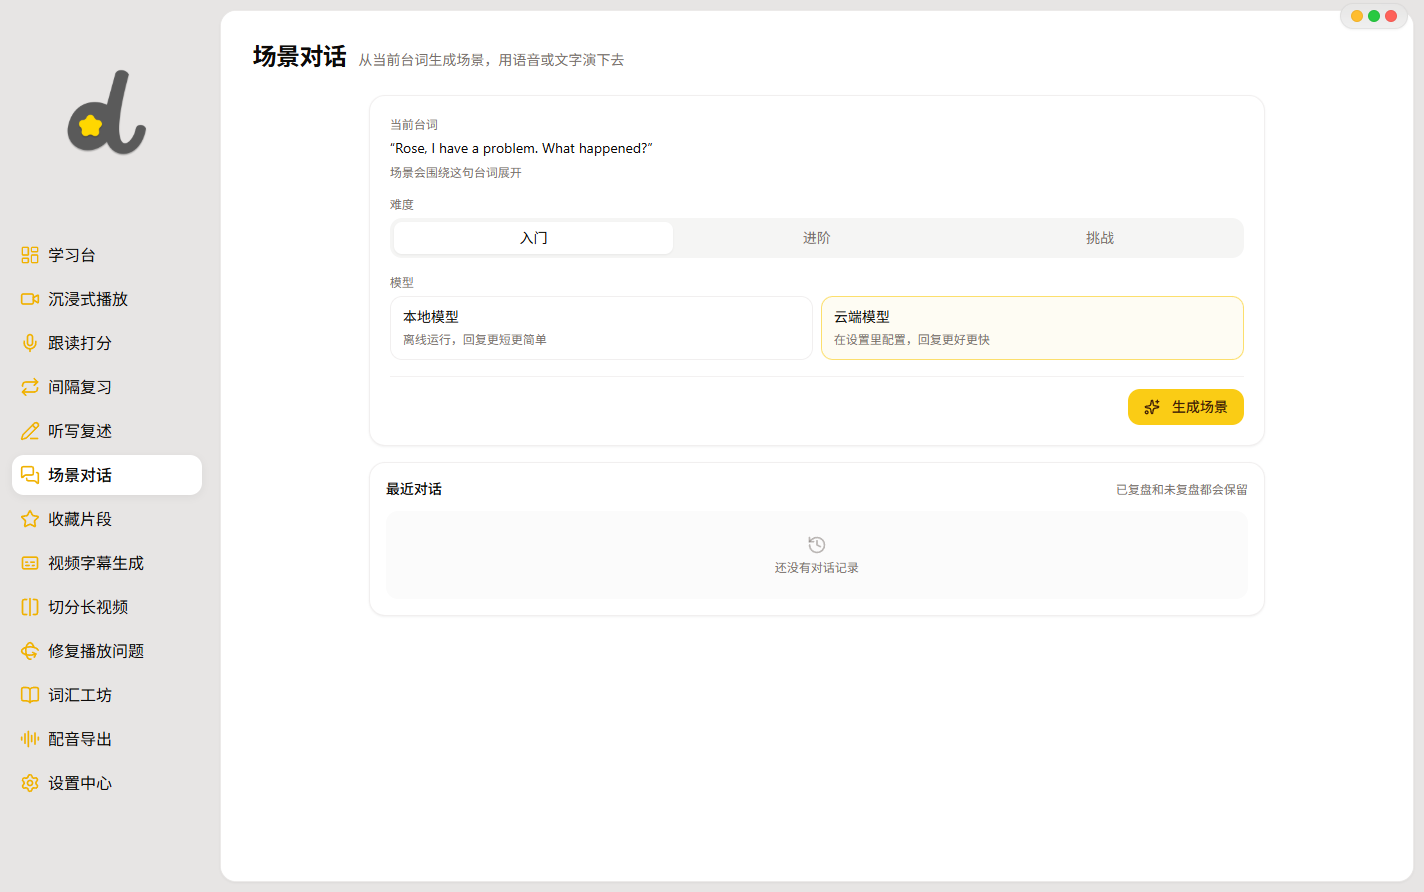
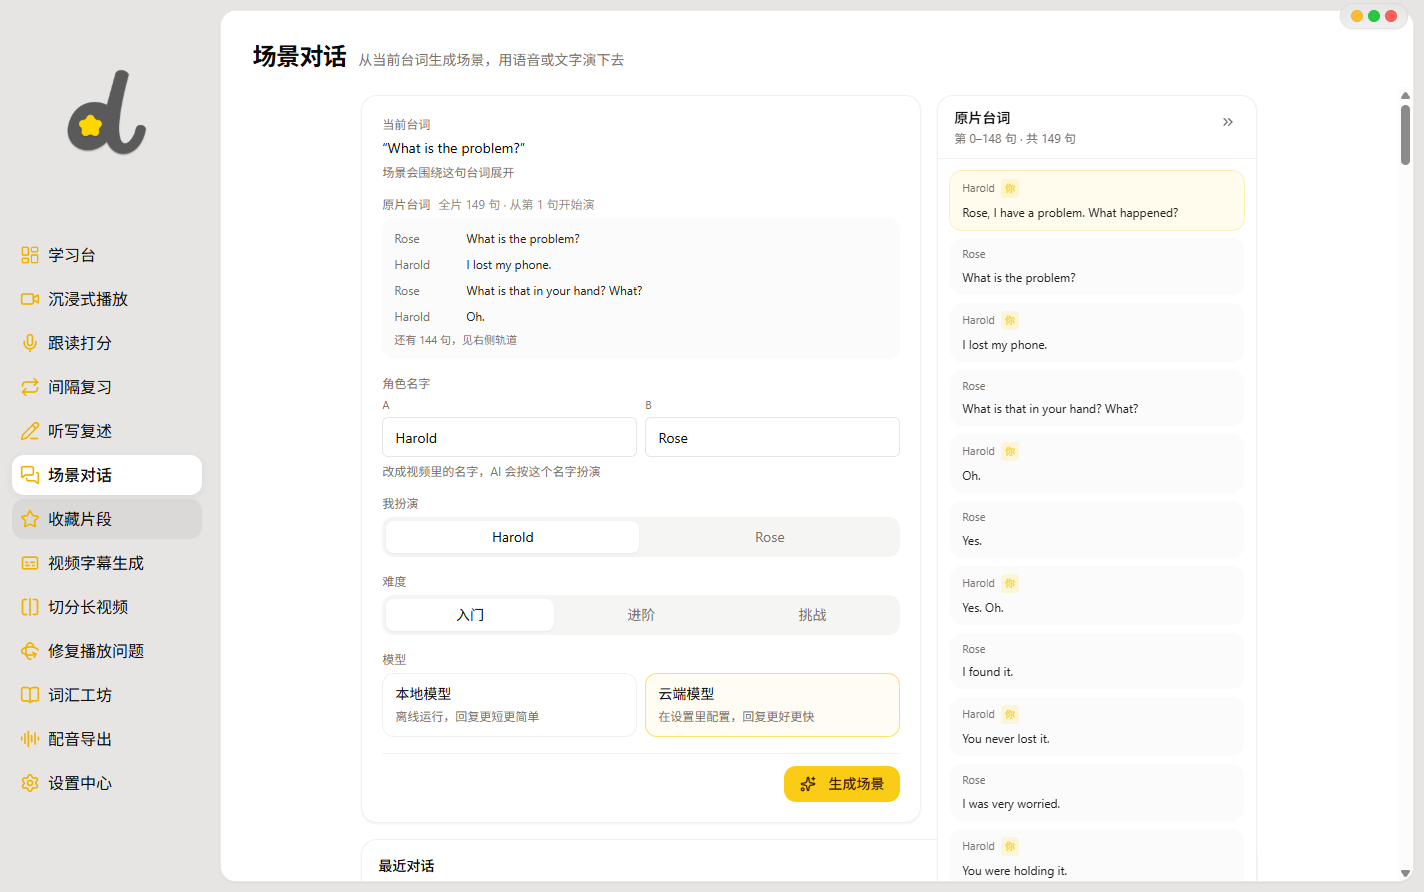
docs: bring the repository up to P6 for a public release
- README: describe the P6 rehearsal dialogue, say plainly that the five pages share one engine and differ by task
- README: baseline tag portfolio-p6, migrations 0007-0012, new dialogue screenshots
- NOTICE: copyright line and P6 modification list
- screenshots: retake 07/08/10 on the new dialogue, add 09

diff --git a/README.md b/README.md
@@ -28,6 +28,28 @@ Watch → hear a line → shadow → word-level feedback → save
 
 Every item points back to `videoKey + sentenceIndex`, so the original context is never lost.
 
+### One engine, five views
+
+These pages are not five products; they are five tasks on one engine:
+
+```text
+sentence (videoKey + sentenceIndex)
+  → play audio → record → local ASR → word alignment → score
+  → store attempt → (optionally) schedule a review card
+```
+
+What changes per page is the **task** and therefore the **scoring rule**:
+
+| Page | Task | How it is judged |
+|---|---|---|
+| Shadowing | say the line after hearing it | word-by-word against the line |
+| Spaced review | say it again when due | same word-by-word score; pass moves the card forward |
+| Dictation | type what you hear | word-by-word against the line |
+| Retell | say it in your own words | keyword coverage, not exact wording |
+| Scene dialogue | say your part in a scripted conversation | per-line correction (wording / grammar / pronunciation), script followed line by line |
+
+If two of these feel identical to you, that is useful feedback: it means the task does not differ enough to justify its own page. That is the next thing being fixed.
+
 ## What this fork adds
 
 | Area | What it does |
@@ -36,7 +58,7 @@ Every item points back to `videoKey + sentenceIndex`, so the original context is
 | **Spaced Review** | Review means listening and shadowing again. The backend reads the real attempt score; a pass postpones the card (1/3/7/14/30 days), a fail returns it immediately. |
 | **Dashboard** | Today’s practice (shadowing + dictation/retell + dialogue turns), streak, 7-day activity. |
 | **Dictation & Retell** | Word-by-word dictation check; retelling scored by keyword coverage, not exact wording. |
-| **Scene Dialogue** | Builds a role-play from the current line, lets you speak or type, then produces specific feedback. Good lines go into the same review queue. |
+| **Scene Dialogue** | Rehearses the clip's own dialogue. The whole subtitle track becomes a script rail; the AI speaks the next original line (it does not invent lines), the learner says their part, each line is spoken before the next appears, and every learner line gets a per-line correction card. Review at the end; good lines go into the same queue. |
 | **Local-first models** | Dialogue can run on the bundled Qwen3.5 2B (offline) or any OpenAI-compatible endpoint (cloud or local Ollama). The UI always shows which model produced the feedback. |
 
 ### Three evaluation layers (and what is deliberately missing)
@@ -55,8 +77,10 @@ There is **no phoneme, stress, or intonation score** for free speech. The local 
 | Word-level shadowing feedback | Spaced review driven by a real score |
 | ![Dictation](docs/screenshots/05-dictation.png) | ![Retell](docs/screenshots/06-retell.png) |
 | Dictation check | Retelling by keyword coverage |
-| ![Dialogue](docs/screenshots/08-dialogue-scene.png) | ![Dialogue review](docs/screenshots/10-dialogue-review.png) |
-| Scene generated from the current line | Review: stats, line feedback, good lines |
+| ![Dialogue](docs/screenshots/08-dialogue-scene.png) | ![Dialogue correction](docs/screenshots/09-dialogue-chat.png) |
+| Rehearsing the clip line by line | Per-line correction under the learner's line |
+| ![Dialogue review](docs/screenshots/10-dialogue-review.png) | ![Dialogue setup](docs/screenshots/07-dialogue-setup.png) |
+| Review: stats, line feedback, good lines | Setup: script rail, roles, difficulty |
 | ![Dashboard](docs/screenshots/11-dashboard.png) | ![Player](docs/screenshots/01-player.png) |
 | Dashboard | The player and the current line |
 
@@ -71,7 +95,7 @@ Renderer (React features)
 - Front end: `src/fronted/features/<domain>/`
 - Back end: `controllers / services / infrastructure / ioc`
 - Contracts: `src/common/contracts/**`, `src/common/api/api-def.ts`
-- SQLite + Drizzle; migrations `0007`–`0010` add the learning tables.
+- SQLite + Drizzle; migrations `0007`–`0012` add the learning tables.
 - Shared engines: tokenization, word alignment, sentence audio, recorded speech, recorder hook, local-model adapter.
 
 ## Quick start
@@ -109,7 +133,7 @@ corepack yarn package
 
 ## Project status
 
-- Baseline tag: `portfolio-p5`.
+- Baseline tag: `portfolio-p6`.
 - All five learning stages are implemented and tested end-to-end on Windows.
 - The local 2B model can run offline but gives weaker scene relevance and feedback than cloud models; the UI labels the reviewing model.
 - Not tested on macOS/Linux in this fork; the upstream project supports them.
@@ -128,8 +152,10 @@ corepack yarn package
 
 这是 [DashPlayer](https://github.com/solidSpoon/DashPlayer) 的英语学习修改版，以“视频句”为唯一学习单元，串起跟读打分、间隔复习、听写复述、场景对话与学习台。
 
+- 五个页面共用一套引擎（取句 → 播/录 → 本地识别 → 逐词对齐 → 打分 → 进复习队列），区别在任务与判定规则；任务形态不够区分的地方，会合并而不是再开一个页面。
+- 场景对话照原片台词逐句演：AI 念剧本原句而不是自由发挥，一句读完才出下一句，每句下方给纠错卡。
 - 评分只做词级，不做假音素级；对话点评标注模型来源，不冒充考试分数。
 - 对话模型可切换内置本地模型（离线）或 OpenAI 兼容接口。
 - 代码基于 AGPL-3.0 开源；影视素材仅本地演示，不随仓库分发。
 
-详见 [`docs/开发流程说明-中文.md`](docs/开发流程说明-中文.md)（如果随仓库提供）。
+构建与验证命令见上文 Quick start；数据表与迁移见 `drizzle/`。
